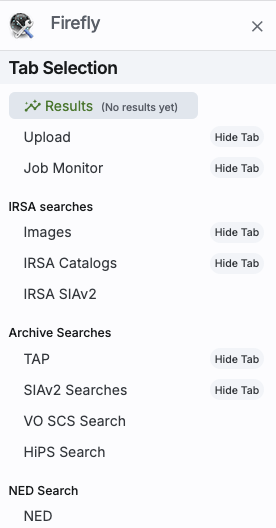
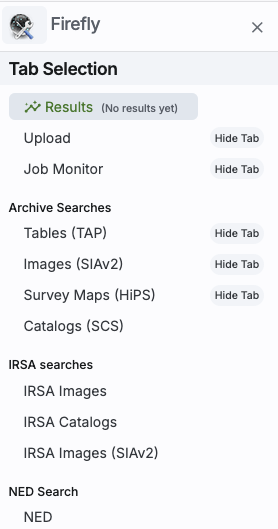
overhaul for cloud firefly part 1

diff --git a/html/firefly/tap.html b/html/firefly/tap.html
@@ -1,0 +1,106 @@
+
+<!DOCTYPE HTML PUBLIC "-//W3C//DTD HTML 4.01 Transitional//EN" "http://www.w3.org/TR/html4/loose.dtd">
+<!--NewPage-->
+<HTML>
+<!-- FOOTER LEFT "Firefly: Other Searches" -->
+<HEAD>
+<TITLE>Firefly: TAP Searches
+</TITLE>
+
+</HEAD>
+
+<BODY BGCOLOR="white" >
+
+<h2>Firefly: TAP Searches</h2>
+
+VO TAP searches that retrieve some sort of <a
+href="tables.html">tables</A>, many of which are <a
+href="catalogs.html">catalogs</A>.  For the results of any of these
+searches, if the tool recognizes positions in a catalog, it will
+overlay the catalog on <a href="images.html">images</A> and <a
+href="plots.html">make plots</A>. <P>
+
+<em>Contents of page/chapter:</em><br>
++<A href="#intro">Introduction &amp; Terminology</A> <br>
++<A href="#tap">General TAP Search</A> <br>
+
+
+
++<a href="#interactivetarget">Interactive Target Refinement</A><br>
++<a href="#moreconstraints">VO TAP: More about constraints</A><br>
++<a href="#moreconstraints2">VO ObsCore: More about constraints</A><br>
++<A href="#irsavotap">TAP Search</A> <br>
++<A href="#obscore">ObsCore Search</A> <br>
++<A href="#nedcatalogs">NED Objects</A> -- Searching for NED objects <br>
++<A href="#voscs">VO SCS</A> -- VO Simple Cone Search <br>
+<P>&nbsp;<P>
+
+
+
+<hr width="50%">
+<h3><A name="intro">Introduction &amp; Terminology</A></h3>
+
+There is a lot of terminology in this chapter to understand.
+<UL>
+<LI>VO = <A href="http://www.virtualobservatory.org/"
+target="_blank">Virtual Observatory <img src="img/jumpout.jpg"
+height="10"></A> 
+<LI>TAP = <a href="https://www.ivoa.net/documents/TAP/"
+target="_blank">table access protocol <img src="img/jumpout.jpg"
+height="10"></A>. TAP services enable complex queries of tables using ADQL.  
+<LI>ADQL = <a href="https://www.ivoa.net/documents/ADQL/"
+target="_blank">astronomical data. 
+query language <img src="img/jumpout.jpg" height="10"></A>
+<LI>ObsCore = <a href="https://www.ivoa.net/documents/ObsCore/"
+target="_blank">core components of Observation Data Model <img
+src="img/jumpout.jpg" height="10"></A>
+<LI>Data model = A standard logical structure for a type of dataset;
+more flexible and general than a data format. 
+<LI>ObsTAP = TAP service that serves ObsCore tables
+<LI>SCS = simple cone search.
+</UL>
+
+There are myriad places on the web to learn more about TAP queries and
+ADQL, as well as all the rest of the VO standards and protocols. We
+just provide a brief overview here in the context of this tool. <P>
+
+Firefly can help you interactively create ADQL which then you can
+copy and use in your own code elsewhere.<P>
+
+By using TAP and ObsTAP queries, you can use IRSA (or someone else's)
+services to talk to other archives that also comply with these
+standards, world-wide.<P>
+
+This section assumes you already know how to work with <a
+href="tables.html">tables in Firefly</A>.<P>
+
+
+
+<hr width="50%">
+<h3><A name="tap">General TAP Search</A></h3>
+
+This is the kind of search you access when you select the "Tables
+(TAP)" tab.<P>
+
+When you first go to this tab, you will see this near the top of your
+screen:<br>
+<img src="img/generaltap.png" width="75%" style="border:3px solid
+gray"><br>
+At the top, you now have a choice of which TAP service you want to use,
+and it defaults to IRSA's. You can select your favorite from the list,
+or use the toggle on the left to enter your own custom URL. It will
+remember your custom URL in the same session, so you can select it
+again later. If you
+want to hide this top row after setting it (to, say, regain screen
+real estate), look for this on the far right:<br> <img
+src="img/hidetap.png"><br> the "TAP Services:" button (show/hide) will
+reveal or conceal this top row.<P>
+
+
+
+
+<hr width="50%">
+
+
+</BODY>
+</HTML>

diff --git a/html/firefly/overview.html b/html/firefly/overview.html
@@ -35,7 +35,7 @@ overlays, from off your local disk, the web, and/or other services.
 <h3><A NAME="terminology">Terminology</A></h3>
 
 The words in rectangles across the top are 'tabs.'
-<img src="img/bluetabs.png"> and you can add or remove tabs from
+<img src="img/bluetabs.png"><br> and you can add or remove tabs from
 this top level.<P>
 
 This icon in the upper left <img src="img/hamburger.png"> pulls open a
@@ -85,22 +85,22 @@ href="visualization.html">visualization tools</A> available for
 manipulating images.<P>
 
 There is a chapter on <a href="tables.html">tables in general</A>, and
-then separate chapters on both <a href="catalogs.html">catalogs from
-IRSA</A> and <a href="plots.html">plots you can make from
-catalogs</A>. You can also use VO services to conduct <a
-href="othersearches.html">more complicated searches</A>, including
-searches of other archives.<P>
+then separate chapters on both <a href="catalogs.html">catalogs</A>
+and  <a href="plots.html">plots you can make from catalogs</A>. 
+(Plots are sometimes called charts.) You can also use VO services to
+conduct <a href="othersearches.html">more complicated searches</A>,
+including searches of other archives.<P>
 
 The images, catalogs, and plots are all interlinked such that clicking
 on one point in the plot highlights the same point in the catalog and
-the image.<P>
+the image. (In the jargon of user interfaces, this is called "brushing
+and linking.") <P>
 
 Spectra are a special case of data that use images, plots, and tables,
 so there is a <a href="spectra.html">special chapter on just
 spectra</A>. <P>
 
-<a href="download.html">Downloading data</A> has its own
-page</A>.<P>
+<a href="download.html">Downloading data</A> has its own page</A>.<P>
 
 
 
@@ -118,12 +118,16 @@ The highlighted bar ("Results" in this example) is the tab you have in
 the foreground on your main window.<P>
 
 You can use this side menu to add (or remove) blue tabs from the top
-of your Firefly interface. By default, Results, <a
-href="images.html">Images</A>, <a
-href="othersearches.html#generaltap">TAP</A>, <a
-href="catalogs.html">IRSA Catalogs</A>, <a
-href="upload.html">Upload</A>, and 
-<a href="jobmon.html">Job Monitor</A> are shown.<P>
+of your Firefly interface. By default, the following tabs appear:
+"Results", "<a href="tap.html">Tables (TAP)</A>", "Images (SIAv2)", "Survey Maps (HiPS)", 
+<a href="upload.html">Upload</A>, and 
+<a href="jobmon.html">Job Monitor</A>. Results of any search appear in
+the Results tab.<a href="tap.html">TAP</A> is table access protocol,
+which enables searching a variety of tables. 
+
+<a href="images.html">Images</A>, 
+<a href="othersearches.html#generaltap">TAP</A>, 
+<a href="catalogs.html">IRSA Catalogs</A>, 
 
 Other tabs you can add include <a
 href="othersearches.html#voscs">VO SCS (Simple Cone Search)</A> and
